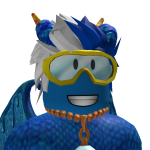
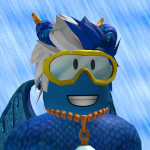
Updated design.

diff --git a/FurManage/web/css/main.css b/FurManage/web/css/main.css
@@ -10,6 +10,8 @@
   body{ background-color: #111111;    
   }
   
+  img { border-radius: 20px;
+  }
 
 /* ---------------IDS--------------- */
 
@@ -20,6 +22,10 @@
   .btn{ margin-right: 5px;
         margin-left: 5px;
         border-radius: 60px;
+  }
+  
+  .navbar{ box-shadow: 0px 12px 55px 0px rgba(0,0,0,0.75);
+    
   }
   
   
